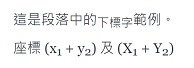
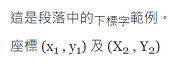
a

Changed region(s): [[0.0538, 0.5672, 0.914, 0.8358], [0.0538, 0.1493, 0.914, 0.4179]]

diff --git a/Chapter 2 區塊元素(block)/2.3 字體效果.md b/Chapter 2 區塊元素(block)/2.3 字體效果.md
@@ -82,7 +82,7 @@ $$a^{2} + b^{2} = c^{2}$$
 
 ```
 這是段落中的~下標字~範例。  
-座標 (x~1~ + y~2~) 及 (X~1~ + Y~2~) 
+座標 (x~1~ , y~1~) 及 (X~2~ , Y~2~) 
 ```
 
 顯示的結果為：
@@ -91,6 +91,18 @@ $$a^{2} + b^{2} = c^{2}$$
 
 {% hint style="danger" %}
 GitHub 及 GitBook 不支援 Markdown的 `[下標字]` 語法。
+
+請使用 KaTeX 的語法：
+
+```
+這是段落中的$$_{下標字}$$範例。  
+座標 $$(x_{1} , y_{1}) 及 (X_{2} , Y_{2})$$
+```
+
+顯示的結果為：
+
+這是段落中的$$_{下標字}$$範例。  
+座標 $$(x_{1} , y_{1}) 及 (X_{2} , Y_{2})$$
 {% endhint %}
 
 ## 底線字
